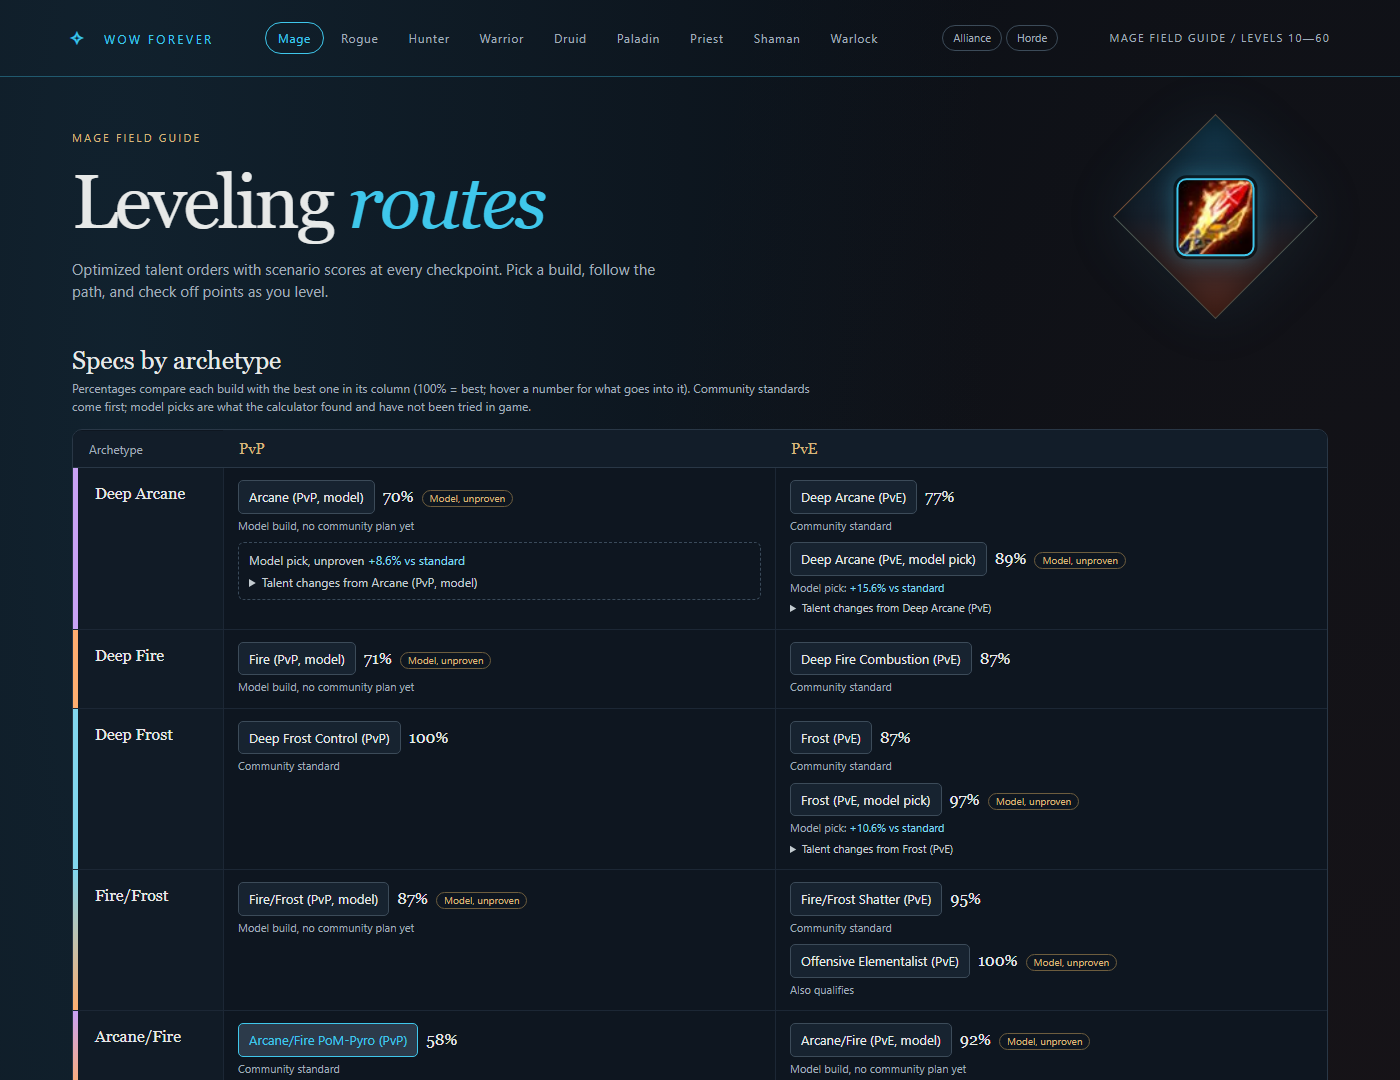
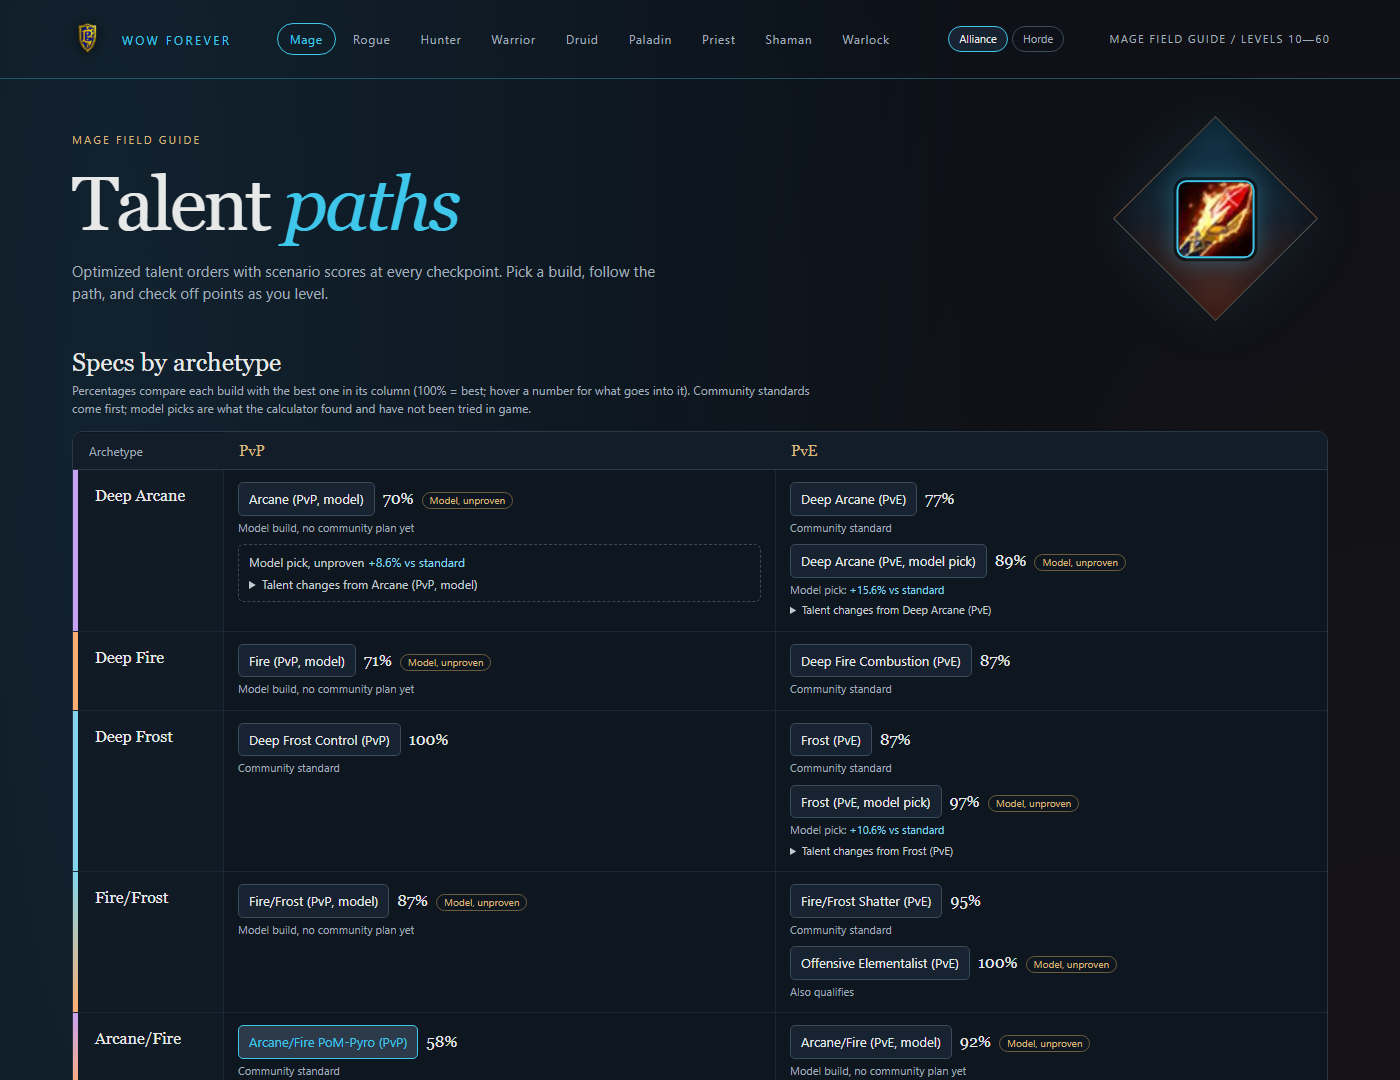
README and screenshots: talent paths, model picks, descriptions, emblems (#214)

diff --git a/README.md b/README.md
@@ -1,11 +1,12 @@
 # wowforever-helper
 
-Talent builds, talent paths (the order to spend points while leveling) and build scoring for **World of Warcraft: Forever**, Blizzard's reimagined
-Classic. It reads the game client's own talent and spell data, collects the builds the community actually
-plays, and scores them for PvE and PvP with a deterministic model. The result is an offline dashboard
-that works for all nine classes.
+Talent builds, talent paths (the order to spend your points from level 10 to 60) and build scoring for
+**World of Warcraft: Forever**, Blizzard's reimagined Classic. It reads the game client's own talent and
+spell data, collects the builds the community actually plays, and scores them for PvE and PvP with a
+deterministic model. The result is a single offline page for all nine classes. It's a talent planner,
+not a leveling guide: it tells you which talent to take at each level, not where to quest.
 
-![The dashboard: specs by archetype for the mage, with community standards, model builds and scores](docs/images/dashboard.png)
+![The mage page: specs by archetype for PvP and PvE, community standards with the model's picks beside them, scores as a share of the best build](docs/images/dashboard.png)
 
 > **Fan project, beta data.** WoW Forever is in beta and changes weekly. Talent trees come straight from
 > the client and are current to the listed build. Scores come from a model with stated assumptions, not
@@ -14,25 +15,33 @@ that works for all nine classes.
 ## What you get
 
 - **Every class and spec:** a matrix of each talent tree (plus the common hybrids) for PvP and PvE.
-  Each slot holds the community standard, or a clearly labeled model build where no community plan exists.
+  Each slot holds the community standard. Where the model finds a better version, its pick sits right
+  under the standard as its own build, with the gain and the talents it changes. Slots with no community
+  plan hold a clearly labeled model build.
 - **Talent paths:** a legal point-by-point order for every build from level 10 to 60, with a level
-  slider, check-off progress saved in your browser, and the next point to take.
+  slider, check-off progress saved in your browser, and the next point to take. The order is optimized
+  for questing pace and looks ahead, so it heads for key talents (Moonkin Form, Seal of Command,
+  Stormstrike) as early as they pay off.
+- **About this build:** for every build, its talent split and when its key talents arrive, what its
+  rotation does at level 60, and where it's strongest and weakest. All generated from the model's data.
 - **Talent layout:** the finished build shown the way a talent calculator draws it.
 - **Recommended gear by level:** as you move through the journey, the best gear your class can use at
   that level for the selected build, from dungeon bosses and quests, with crafted alternatives. Each item
   shows its source, and quest rewards are marked Alliance or Horde (pick yours at the top of the page).
   Where the source site has no faction for a quest, it is worked out from the quest giver or the places
   it names (hover over the tag for the reason). If you know a quest giver's faction, add it to `config/quest_factions.toml`.
-  Hover over (or tap) an item for its stats, or a quest for where it starts and ends and its chain.
-- **Scores:**
-  - PvE: questing kills per hour, dungeon and raid DPS.
-  - PvP: an expected-value duel model against real class opponents.
-  - Each comes with a model pick that beats the standard where the calculator finds one.
-- **Per-class look:** official class icons, in-game class colors, tree colors and real talent icons, working on desktop and phone.
+  Hover over (or tap) an item for its stats and where it comes from, or a quest for where it starts and
+  ends and its chain. The emblem next to the title shows the faction you picked.
+- **Scores:** shown as a share of the class's best build in the same column (100% = best); hover a
+  number for what goes into it.
+  - PvE: questing kills per hour, dungeon and raid DPS, and AoE.
+  - PvP: an expected-value duel model against real class opponents, plus battlegrounds.
+- **Per-class look:** official class icons, in-game class colors, tree colors, real talent icons and the
+  game's own faction emblems, working on desktop and phone.
 
-![The talent layout of a rogue build](docs/images/talent-layout.png)
+![A rogue build: About this build above its talent layout](docs/images/talent-layout.png)
 
-![Recommended gear at level 25 for an Assassination rogue, with sources, crafted alternatives and a quest card open](docs/images/gear.png)
+![Recommended gear at level 25 for an Assassination rogue playing Horde, with sources, crafted alternatives and a quest card open](docs/images/gear.png)
 
 ## Quick start
 
@@ -66,7 +75,7 @@ python -m venv .venv
 | `wowforever gear-stats --class <class>` | Rebuilds a class's per-level stat table from real Forever items |
 | `wowforever gear-sources [--refresh]` | Rebuilds `data/items/gear.json` (where gear comes from); `--refresh` fetches wowforevertalent.com's item, dungeon and quest pages first |
 | `wowforever import-logs <file.har>` | Summarizes Forever Logs pages you saved from your browser (no fetching) |
-| `wowforever validate-logs` | Compares the model's dungeon DPS with Forever Logs statistics per class and spec |
+| `wowforever validate-logs [--boss-only]` | Compares the model's dungeon DPS with Forever Logs statistics per class and spec, against the average and the strong (p75/p90) parses; `--boss-only` leaves out trash pulls |
 
 There are no scheduled jobs. Every network call happens only when you run `update` or one of the tools.
 
@@ -84,7 +93,9 @@ There are no scheduled jobs. Every network call happens only when you run `updat
   (`config/stats/`).
 - **PvP** is a duel model of kill speed, lockouts (with diminishing returns), kiting and armor against
   18 real-talent opponent kits.
-- **Healers and tanks** have routes but no scores (there's no healing or threat model yet).
+- **Healers and tanks** have talent paths but no scores (there's no healing or threat model yet).
+- **Community builds that spend fewer than 51 points** (their site build uses talents the client's tree
+  doesn't have) get the rest filled by the model; the build's description says which.
 - **Reality check:** `validate-logs` compares the model with real beta parses (`--boss-only` for boss
   fights). Ranged and caster DPS track the stronger boss parses; melee comes out low, most likely because
   the model leaves out party buffs and totems ([findings](docs/research/log-calibration.md), [#172](https://github.com/alsh0083/wowforever-helper/issues/172)).
@@ -97,7 +108,8 @@ Assumptions and their sources are in `config/` and `docs/research/`.
 - **[wowforevertalent.com](https://wowforevertalent.com/)**: talent rank text, icons, calculator popularity
   and the build catalog, under Creative Commons Attribution. Raw page snapshots are kept unmodified under
   `data/raw/wowforevertalent/`.
-- **[wago.tools](https://wago.tools/)**: DB2 exports of the WoW Forever client (talent trees, spells, items).
+- **[wago.tools](https://wago.tools/)**: DB2 exports of the WoW Forever client (talent trees, spells, items),
+  and game files such as the faction emblems through its published API.
 - **[Forever Logs](https://foreverlogs.gg/)**: combat-log statistics through its
   [official public API](https://foreverlogs.gg/docs/api), used to check the damage models. Bring your own
   free key (`FOREVERLOGS_API_KEY` in `.env`). Responses are cached locally and not redistributed.

diff --git a/dashboard/README.md b/dashboard/README.md
@@ -1,4 +1,4 @@
-# WoW Forever mage dashboard
+# WoW Forever talent paths dashboard
 
 Open `index.html` in a browser. It works offline: talent icons and all data are embedded.
 
@@ -6,10 +6,10 @@ Open `index.html` in a browser. It works offline: talent icons and all data are 
 
 ```sh
 python -m wowforever update                                     # fetch + normalize the latest Forever build
-python -m wowforever report --dataset data/datasets/<build>.json
+python -m wowforever report --dataset data/datasets/<build>.json --class <class> --out data/report-<class>.json   # each class; mage writes data/report.json
 python -m wowforever dashboard                                  # writes dashboard/index.html
 ```
 
-- **Build switcher:** the current Elementalist route plus deep Frost, deep Fire and an Arcane reference build, each with its point order, scenario scores at levels 20-60, sensitivity to unknown mechanics, and caveats.
+- **All nine classes** (class tabs at the top): the spec matrix of community and model builds, each build's talent path (point order), its About this build text, talent layout, scores at levels 20-60 and recommended gear by level. See the main README for details.
 - **Progress** is saved per build in this browser (localStorage).
 - Talent text and icons: [wowforevertalent.com](https://wowforevertalent.com/) (Creative Commons Attribution). Game data: wago.tools. Artwork belongs to its respective owners.
